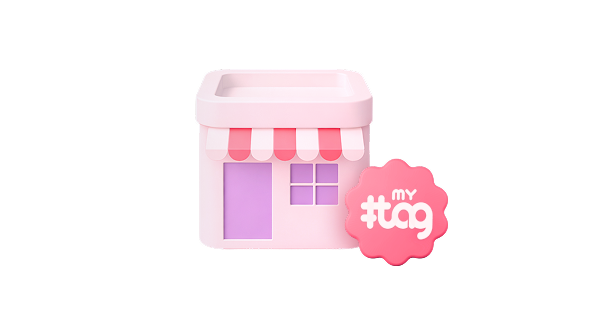
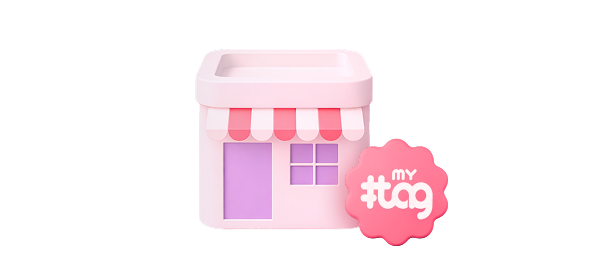
마이태그 서비스

diff --git a/src/styles/pages/su.scss b/src/styles/pages/su.scss
@@ -2,6 +2,7 @@
 
 .visual-wrap {
   position: relative;
+  padding: var(--space-40) 0;
   margin: 0 0 var(--space-56);
 }
 
@@ -754,13 +755,10 @@
 
 // Tablet
 @include respond-md {
-  .visual-wrap {
-    padding: var(--space-40) 0;
-  }
   .visual-item {
     &::after {
       width: 320px;
-      height: 160px;
+      height: 140px;
       background: url(#{$img_url}/su/bg_visual_mytag.png) no-repeat 0 0 / auto 100%;
     }
   }  

diff --git a/static/styles/su.css b/static/styles/su.css
@@ -1,5 +1,6 @@
 .visual-wrap {
   position: relative;
+  padding: var(--space-40) 0;
   margin: 0 0 var(--space-56);
 }
 
@@ -976,12 +977,9 @@
 }
 
 @media (max-width: 1023px) {
-  .visual-wrap {
-    padding: var(--space-40) 0;
-  }
   .visual-item::after {
     width: 320px;
-    height: 160px;
+    height: 140px;
     background: url(/static/images/su/bg_visual_mytag.png) no-repeat 0 0/auto 100%;
   }
   .mytag-guide {
